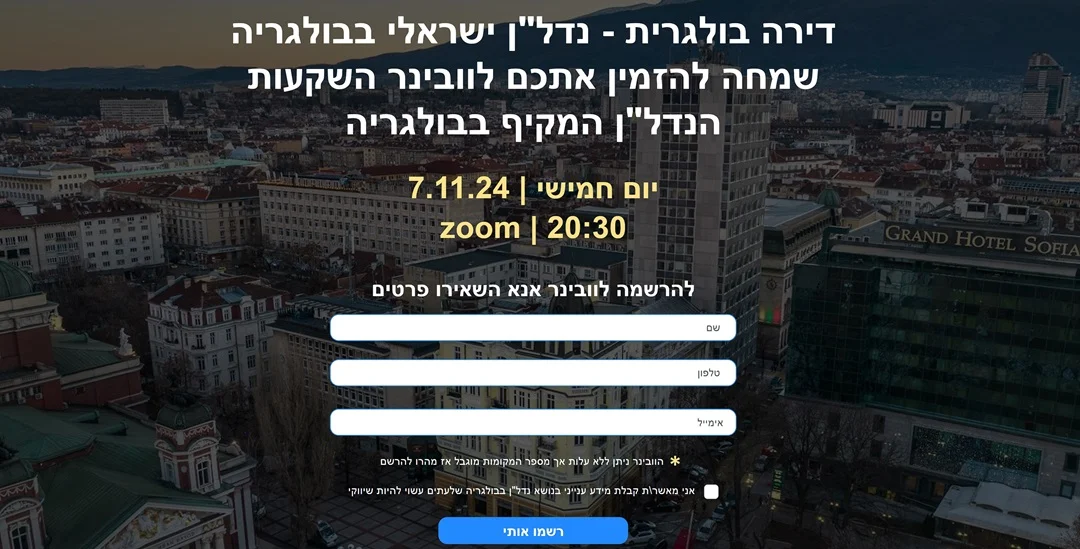
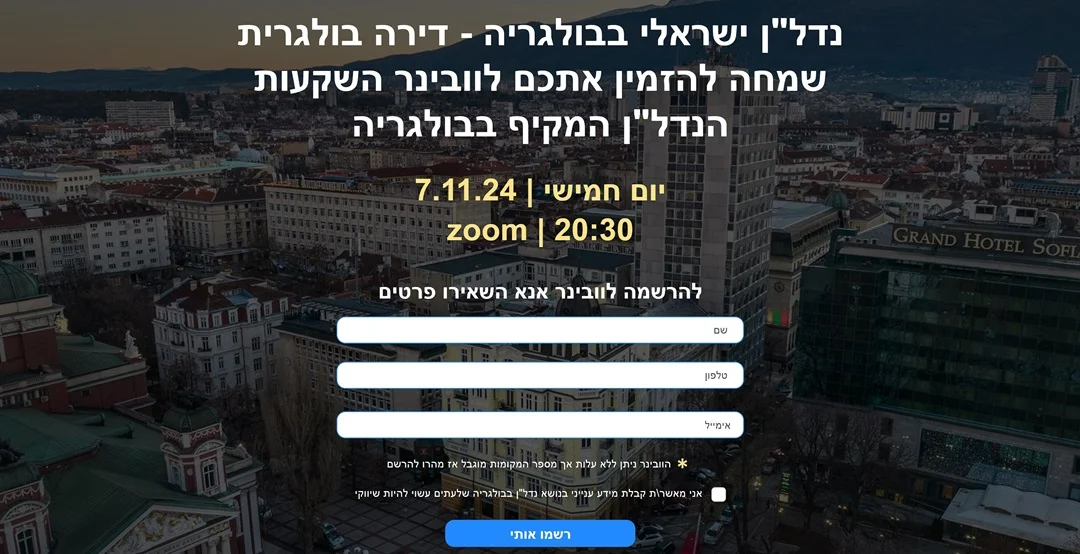
Fixed webinar top container style

diff --git a/public/css/queries.scss b/public/css/queries.scss
@@ -34,7 +34,8 @@
 // X-Small
 @media only screen and (min-width: 360px) {
   // ***** Main page Webinar *****
-  .webinar-mainpage-text {
+  .webinar-mainpage-text,
+  .webinar-mainpage-text span {
     font-size: $h6;
   }
 
@@ -539,8 +540,9 @@
 // Medium
 @media only screen and (min-width: 768px) {
   // ***** Main page Webinar *****
-  .webinar-mainpage-text {
-    font-size: $h5;
+  .webinar-mainpage-text,
+  .webinar-mainpage-text span {
+    font-size: $h4;
   }
 
   // ***** Navbar *****
@@ -1556,11 +1558,6 @@
 
 // x-Large
 @media only screen and (min-width: 1200px) {
-  // ***** Main page Webinar *****
-  .webinar-mainpage-text {
-    font-size: $h4;
-  }
-
   // ***** Hero Video *****
   .hero-video-bg-video-text {
     font-size: $h7;

diff --git a/public/css/queries.css b/public/css/queries.css
@@ -22,7 +22,8 @@
   }
 }
 @media only screen and (min-width: 360px) {
-  .webinar-mainpage-text {
+  .webinar-mainpage-text,
+  .webinar-mainpage-text span {
     font-size: 1.6rem;
   }
   .en-hero-container {
@@ -462,8 +463,9 @@
   }
 }
 @media only screen and (min-width: 768px) {
-  .webinar-mainpage-text {
-    font-size: 2rem;
+  .webinar-mainpage-text,
+  .webinar-mainpage-text span {
+    font-size: 2.4rem;
   }
   .navbar-call-us-text-container {
     padding: 0.6rem 2rem;
@@ -1343,9 +1345,6 @@
   }
 }
 @media only screen and (min-width: 1200px) {
-  .webinar-mainpage-text {
-    font-size: 2.4rem;
-  }
   .hero-video-bg-video-text {
     font-size: 1.2rem;
   }

diff --git a/public/css/style.scss b/public/css/style.scss
@@ -444,7 +444,7 @@ body {
 }
 
 .webinar-mainpage-text {
-  font-size: $h7;
+  font-size: $h8;
   color: $text-color-tertiary;
   text-decoration: none;
   font-weight: 600;
@@ -452,6 +452,7 @@ body {
 
 .webinar-mainpage-text span {
   color: $text-color-counter;
+  font-size: $h7;
 }
 
 // ***** Hero Video *****

diff --git a/public/css/style.css b/public/css/style.css
@@ -2761,7 +2761,7 @@ body {
 }
 
 .webinar-mainpage-text {
-  font-size: 1.2rem;
+  font-size: 1rem;
   color: #324762;
   text-decoration: none;
   font-weight: 600;
@@ -2769,6 +2769,7 @@ body {
 
 .webinar-mainpage-text span {
   color: #cfa336;
+  font-size: 1.2rem;
 }
 
 .hero-video-bg-video-container {
